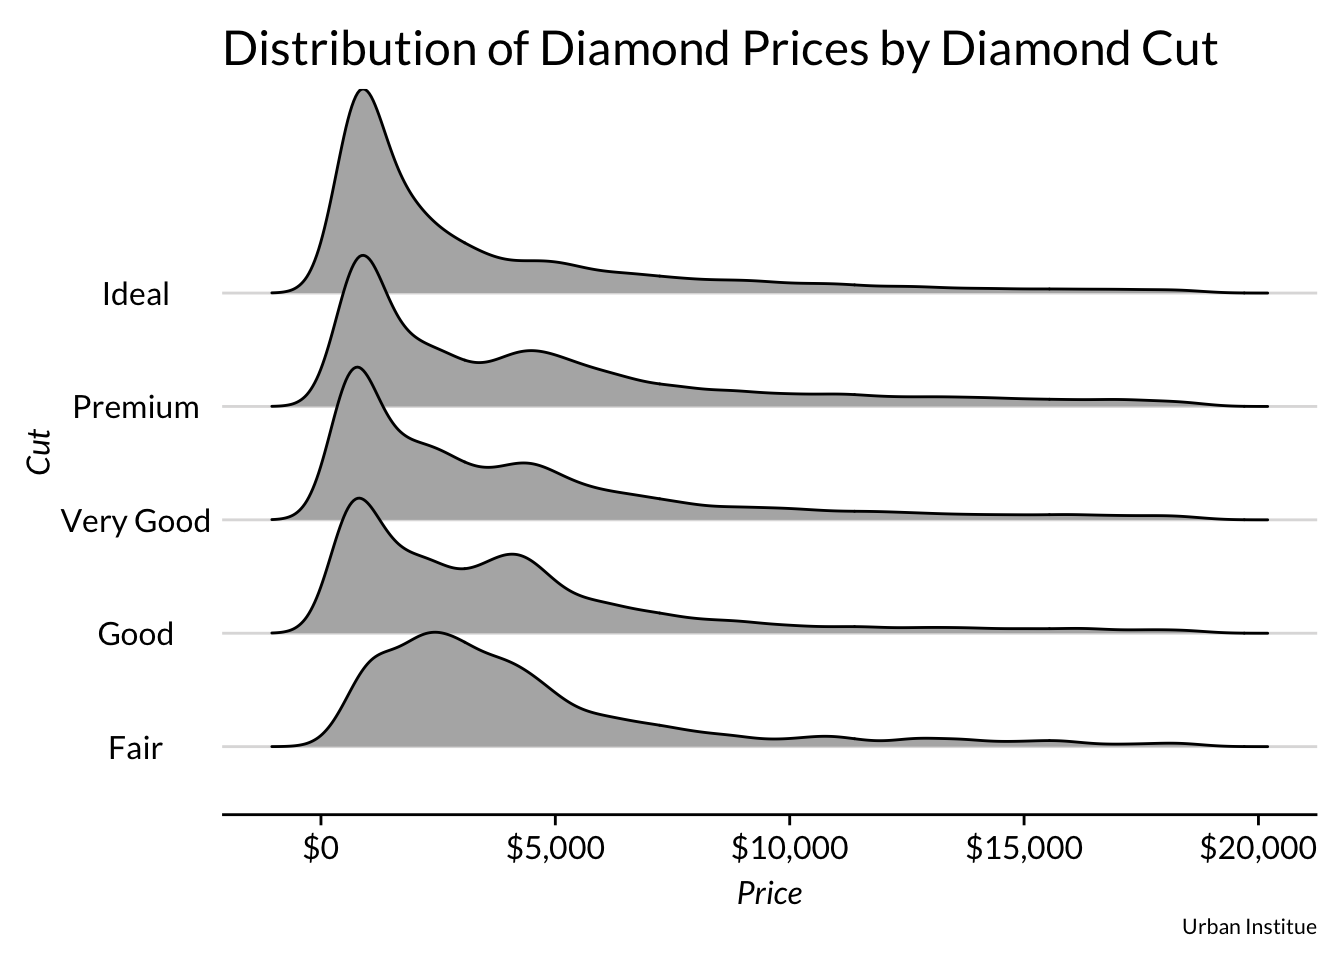
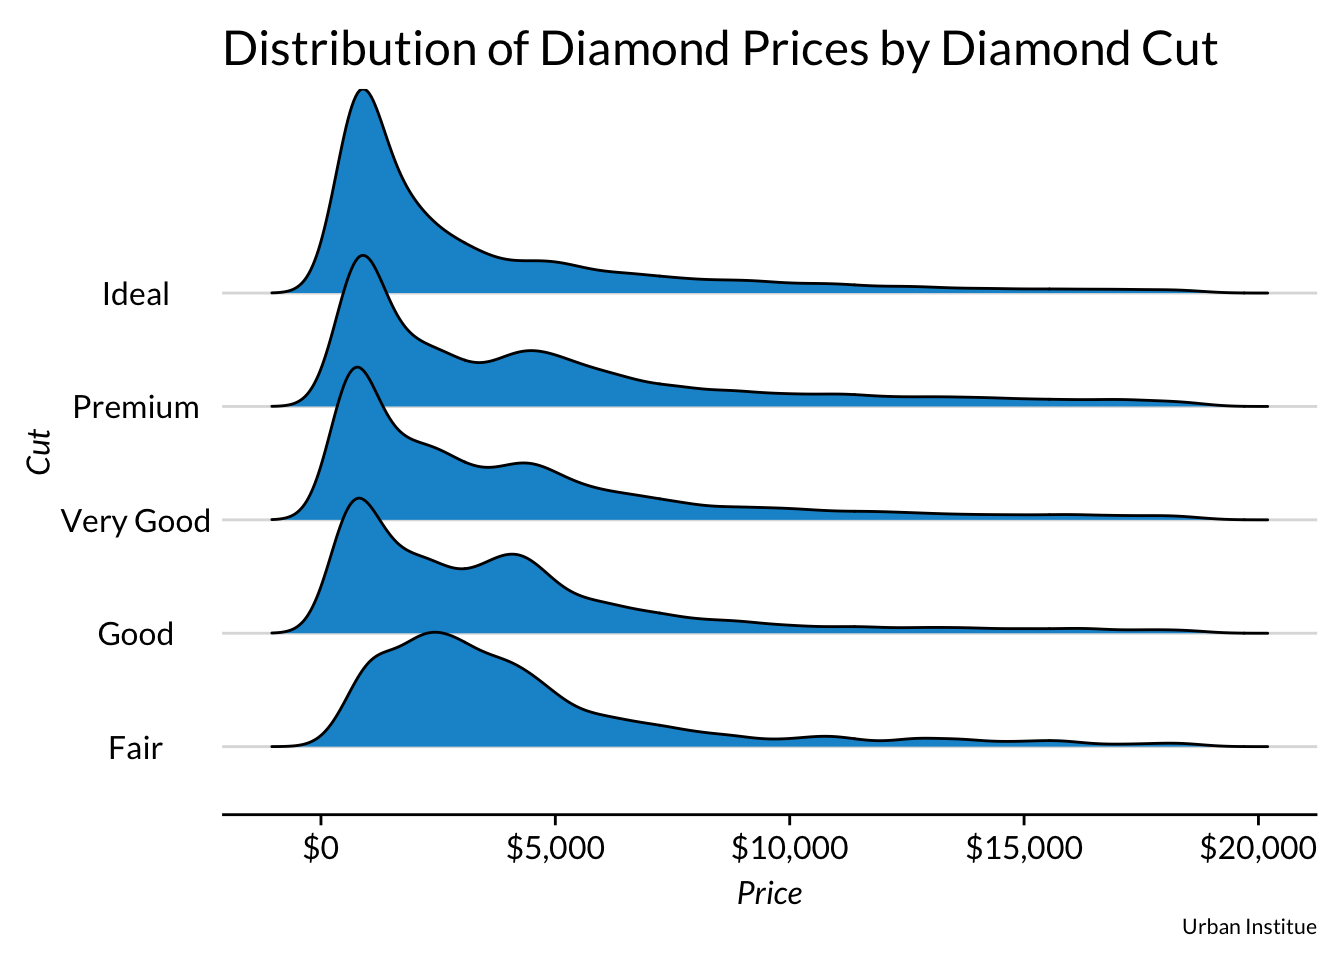
Switch code font to Monaco - the default font in RStudio.

Changed region(s): [[0.2188, 0.0938, 0.875, 0.7812]]

diff --git a/docs/index.html b/docs/index.html
@@ -652,7 +652,7 @@ economics %&gt;%
 <pre class="r"><code>library(ggjoy)
 
 ggplot(diamonds, mapping = aes(x = price, y = cut)) +
-    geom_joy() +
+    geom_joy(fill = &quot;#1696d2&quot;) +
     scale_x_continuous(labels = scales::dollar) +
   labs(title = &quot;Distribution of Diamond Prices by Diamond Cut&quot;,
        caption = &quot;Urban Institue&quot;,
@@ -1188,35 +1188,35 @@ mpg %&gt;%
 ## [8] base     
 ## 
 ## other attached packages:
-##  [1] USAboundaries_0.3.0   maps_3.2.0            fivethirtyeight_0.2.0
+##  [1] USAboundaries_0.3.0   maps_3.2.0            fivethirtyeight_0.3.0
 ##  [4] ggmap_2.6.1           zipcode_1.0           waffle_0.7.0         
 ##  [7] ggjoy_0.3.0           bindrcpp_0.2          hexbin_1.27.1        
 ## [10] extrafont_0.17        RColorBrewer_1.1-2    dplyr_0.7.2          
-## [13] purrr_0.2.3           readr_1.1.1           tidyr_0.6.3          
+## [13] purrr_0.2.3           readr_1.1.1           tidyr_0.7.0          
 ## [16] tibble_1.3.3          ggplot2_2.2.1         tidyverse_1.1.1      
-## [19] knitr_1.16           
+## [19] knitr_1.17           
 ## 
 ## loaded via a namespace (and not attached):
-##  [1] Rcpp_0.12.12      lubridate_1.6.0   lattice_0.20-35  
-##  [4] png_0.1-7         assertthat_0.2.0  rprojroot_1.2    
-##  [7] digest_0.6.12     psych_1.7.5       R6_2.2.2         
-## [10] cellranger_1.1.0  plyr_1.8.4        backports_1.1.0  
-## [13] evaluate_0.10.1   httr_1.2.1        RgoogleMaps_1.4.1
-## [16] rlang_0.1.1       lazyeval_0.2.0    readxl_1.0.0     
-## [19] geosphere_1.5-5   extrafontdb_1.0   Matrix_1.2-10    
-## [22] rmarkdown_1.6     proto_1.0.0       labeling_0.3     
-## [25] stringr_1.2.0     foreign_0.8-69    munsell_0.4.3    
-## [28] broom_0.4.2       compiler_3.4.1    modelr_0.1.1     
-## [31] pkgconfig_2.0.1   mnormt_1.5-5      mgcv_1.8-18      
-## [34] htmltools_0.3.6   gridExtra_2.2.1   nlme_3.1-131     
-## [37] jsonlite_1.5      Rttf2pt1_1.3.4    gtable_0.2.0     
-## [40] magrittr_1.5      scales_0.4.1      stringi_1.1.5    
-## [43] mapproj_1.2-5     reshape2_1.4.2    sp_1.2-5         
-## [46] xml2_1.1.1        rjson_0.2.15      tools_3.4.1      
-## [49] forcats_0.2.0     glue_1.1.1        hms_0.3          
-## [52] jpeg_0.1-8        parallel_3.4.1    yaml_2.1.14      
-## [55] colorspace_1.3-2  rvest_0.3.2       bindr_0.1        
-## [58] haven_1.1.0</code></pre>
+##  [1] httr_1.3.0        jsonlite_1.5      modelr_0.1.1     
+##  [4] assertthat_0.2.0  sp_1.2-5          cellranger_1.1.0 
+##  [7] yaml_2.1.14       Rttf2pt1_1.3.4    backports_1.1.0  
+## [10] lattice_0.20-35   glue_1.1.1        extrafontdb_1.0  
+## [13] digest_0.6.12     rvest_0.3.2       colorspace_1.3-2 
+## [16] htmltools_0.3.6   Matrix_1.2-11     plyr_1.8.4       
+## [19] psych_1.7.5       pkgconfig_2.0.1   broom_0.4.2      
+## [22] haven_1.1.0       scales_0.4.1      jpeg_0.1-8       
+## [25] mgcv_1.8-18       lazyeval_0.2.0    mnormt_1.5-5     
+## [28] proto_1.0.0       magrittr_1.5      readxl_1.0.0     
+## [31] evaluate_0.10.1   nlme_3.1-131      forcats_0.2.0    
+## [34] xml2_1.1.1        foreign_0.8-69    tools_3.4.1      
+## [37] hms_0.3           geosphere_1.5-5   RgoogleMaps_1.4.1
+## [40] stringr_1.2.0     munsell_0.4.3     compiler_3.4.1   
+## [43] rlang_0.1.2       rjson_0.2.15      labeling_0.3     
+## [46] rmarkdown_1.6     gtable_0.2.0      reshape2_1.4.2   
+## [49] R6_2.2.2          gridExtra_2.2.1   lubridate_1.6.0  
+## [52] bindr_0.1         rprojroot_1.2     stringi_1.1.5    
+## [55] parallel_3.4.1    Rcpp_0.12.12      mapproj_1.2-5    
+## [58] png_0.1-7         tidyselect_0.1.1</code></pre>
 </div>
 </div>
 

diff --git a/docs/styles.css b/docs/styles.css
@@ -31,12 +31,12 @@
 /* In-line code formatting */
 code {
     white-space: pre;
-    font-family: "Helvetice Neue", Helvetica, Arial, sans-serif;
+    font-family: "Monaco", Helvetica, Arial, sans-serif;
 }
 
 /* Code box format */
 .pre {
-	font-family: "Helvetice Neue", Helvetica, Arial, sans-serif;	
+	font-family: "Monaco", Helvetica, Arial, sans-serif;	
 }
 
 /* Button Formatting */
